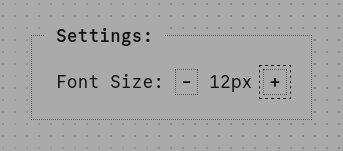
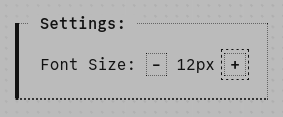
UPDATE BOX SECTION

diff --git a/docs/report.md b/docs/report.md
@@ -78,9 +78,13 @@ The width of paragraphs is limited (`750px`) to enhance readability and allow us
 
 ### 1.4.3. UI Layout and Modularity
 
-The UI is designed to be as barebones yet maximally functional as possible. A modular approach ensures that components are distinct and reusable across the application.
+The UI is designed to be as bare-bones yet maximally functional as possible. A modular approach ensures that components are distinct and reusable across the application.
+
+#### 1.4.3.1. Box Elements
 
 Custom box elements are employed extensively, each with optional top-left, top-right, or center-aligned labels. These labels provide context and hints, ensuring clarity in the interface.
+
+A box element's borders are designed to support natural reading flow and simultaneously define content boundaries. The solid left border clearly indicates the vertical scope of the box and serves as a "start" marker for the content. The bottom border is a thick(er) dotted border, indicating a continuation and pulling the eye downwards and to the right, as with natural reading flow. the two remaining borders are understated; thin and dotted to serve only as demarcations of content boundaries without distracting from the content itself.
 
 ![Box](images/box.png)
 
